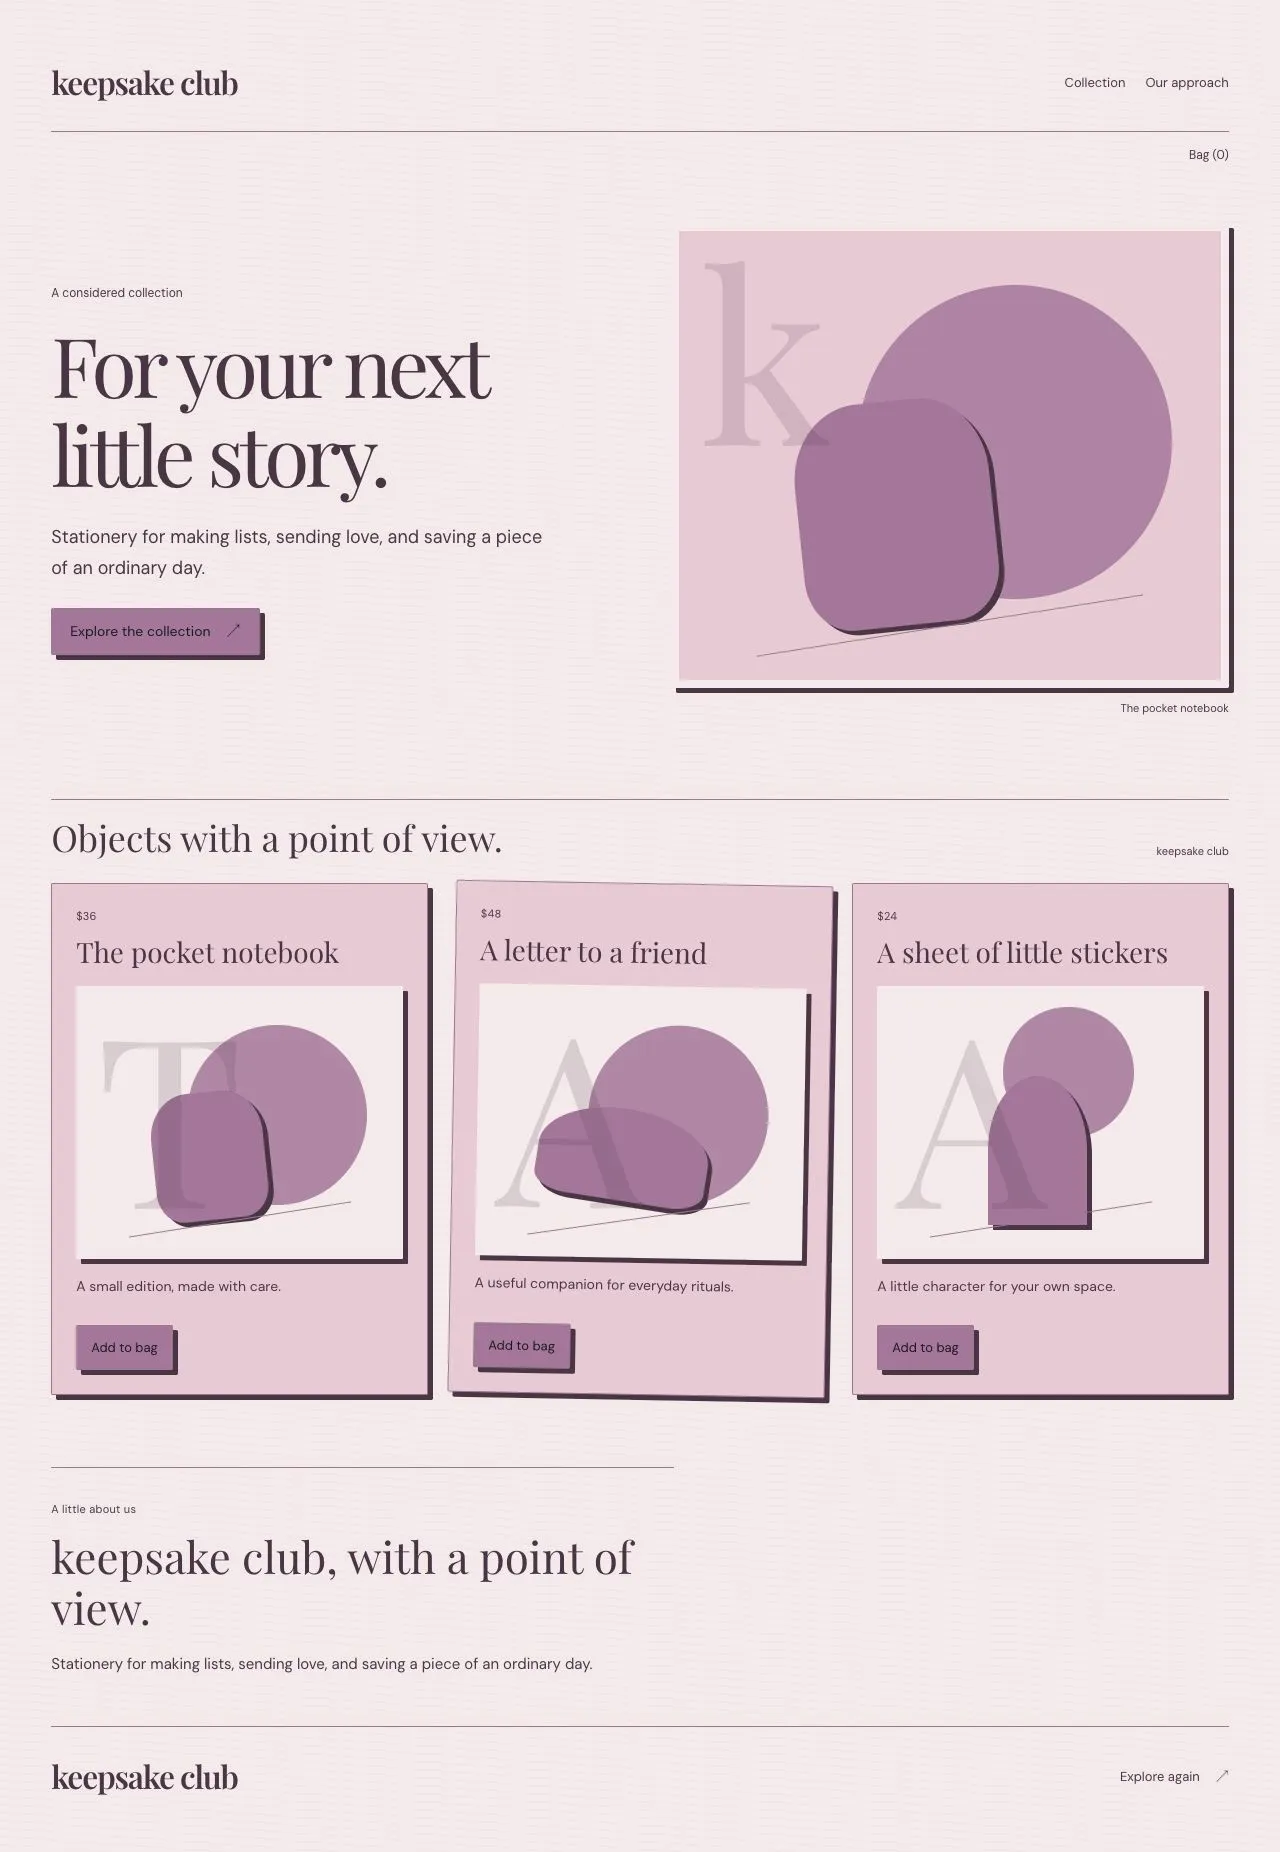
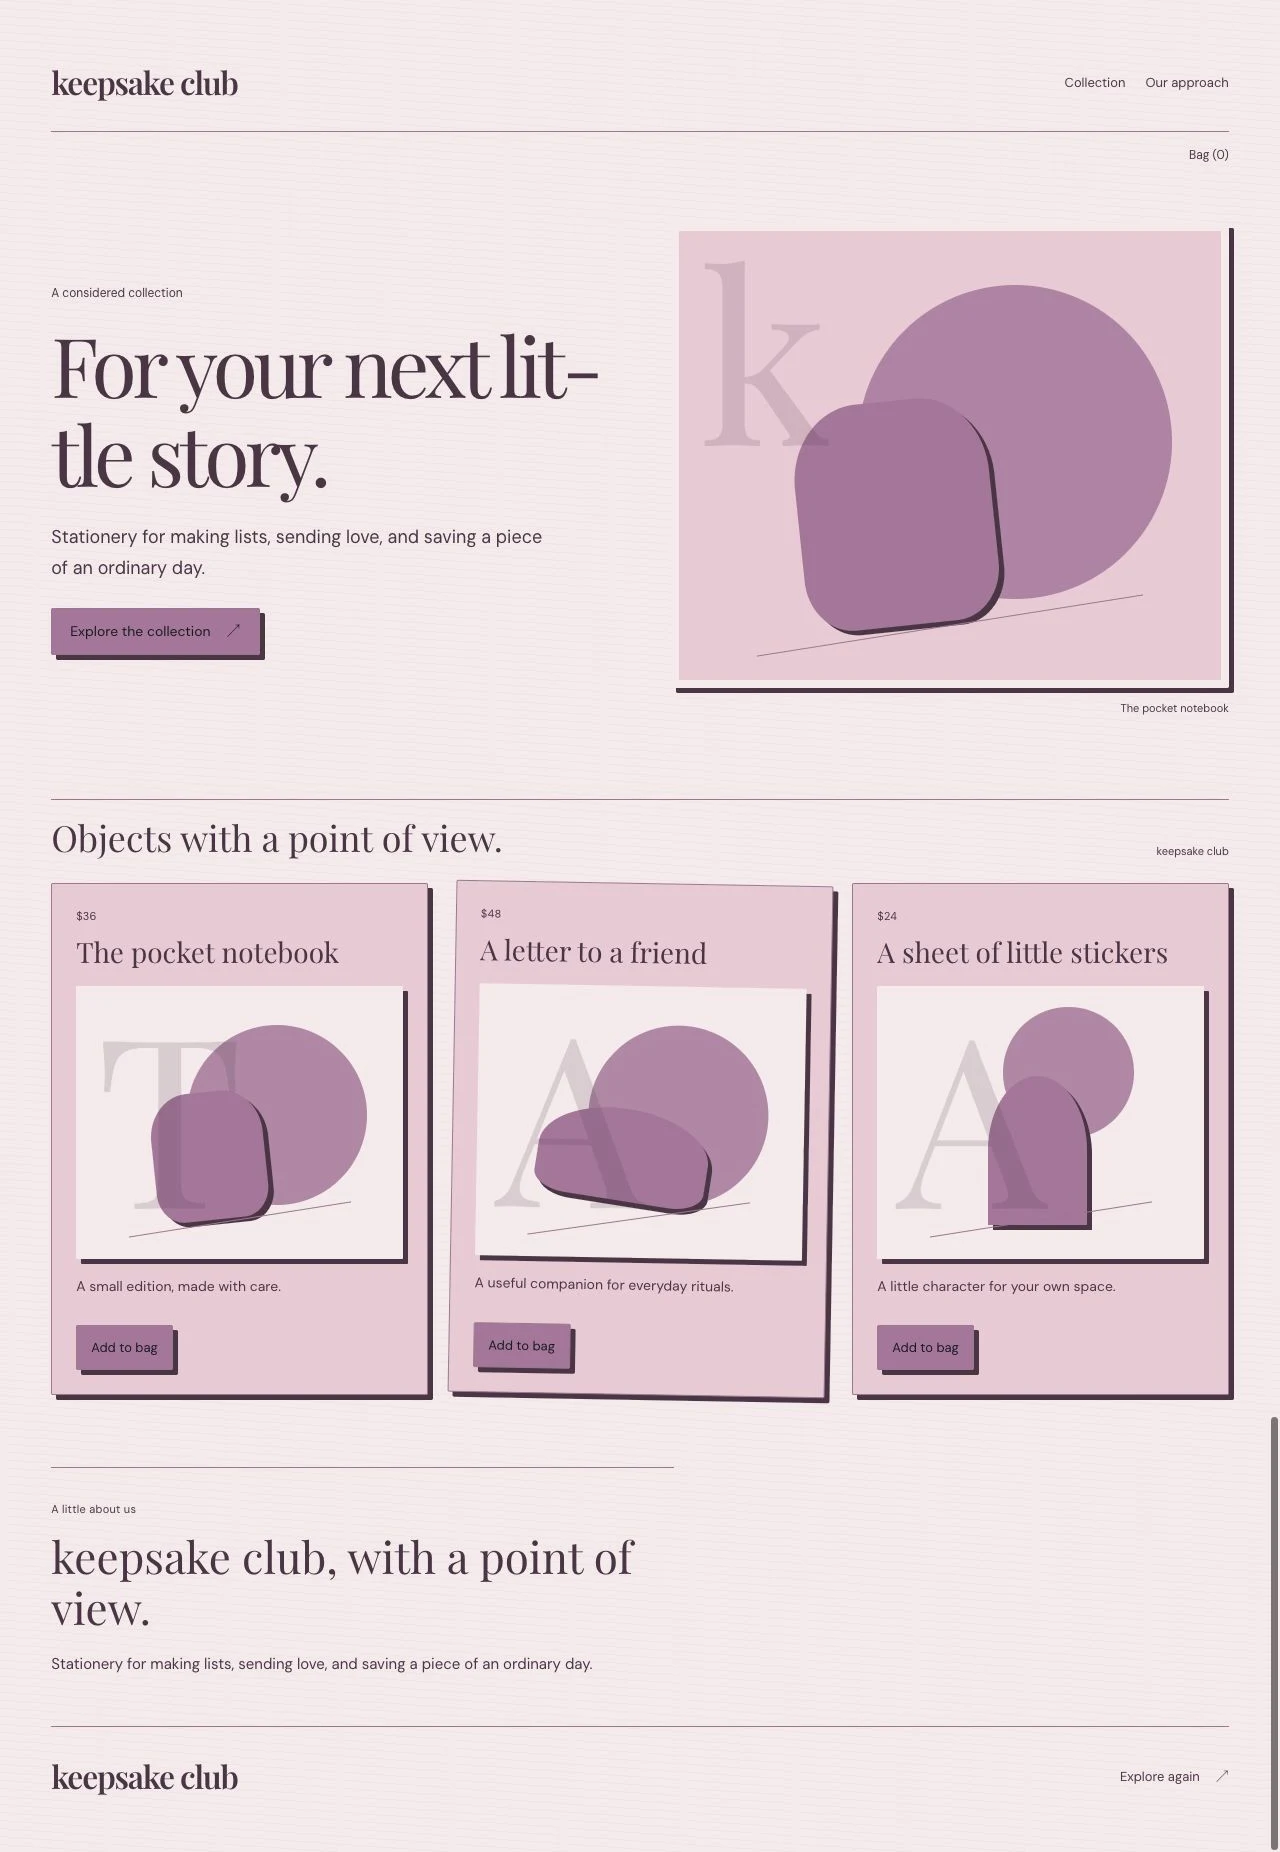
Refresh scrapbook references and synchronize its reusable skill assets.

Changed region(s): [[0.0312, 0.2154, 0.2812, 0.277], [0.9688, 0.7694, 1.0, 1.0], [0.375, 0.1847, 0.4688, 0.2154]]

diff --git a/skills/designkit-scrapbook/assets/shared/KitControls.tsx b/skills/designkit-scrapbook/assets/shared/KitControls.tsx
@@ -1,11 +1,14 @@
 "use client";
-
 import {
   useEffect,
   useId,
   useRef,
+  useState,
   type ButtonHTMLAttributes,
   type InputHTMLAttributes,
+  type HTMLAttributes,
+  type DialogHTMLAttributes,
+  type MouseEvent,
   type ReactNode,
 } from "react";
 
@@ -26,15 +29,16 @@ export function KitCard({
   label,
   children,
   action,
-}: {
-  title: string;
-  label?: string;
-  children?: ReactNode;
+  className = "",
+  ...props
+}: Omit<HTMLAttributes<HTMLElement>, "title"> & {
+  title: ReactNode;
+  label?: ReactNode;
   action?: ReactNode;
 }) {
   return (
-    <article className="kit-card">
-      <span className="kit-label">{label}</span>
+    <article {...props} className={`kit-card ${className}`}>
+      {label ? <span className="kit-label">{label}</span> : null}
       <h3>{title}</h3>
       {children}
       {action ? <div className="kit-card-action">{action}</div> : null}
@@ -44,18 +48,38 @@ export function KitCard({
 export function KitNavigation({
   brand,
   links,
-}: {
+  onNavigate,
+  className = "",
+  ...props
+}: HTMLAttributes<HTMLElement> & {
   brand: string;
   links: { label: string; href: string }[];
+  onNavigate?: (href: string, event: MouseEvent<HTMLAnchorElement>) => void;
 }) {
   return (
-    <nav className="kit-navigation" aria-label={`${brand} example navigation`}>
-      <a className="kit-brand" href={links[0]?.href}>
-        {brand}
-      </a>
+    <nav
+      {...props}
+      className={`kit-navigation ${className}`}
+      aria-label={props["aria-label"] || `${brand} navigation`}
+    >
+      {links[0]?.href ? (
+        <a
+          className="kit-brand"
+          href={links[0].href}
+          onClick={(event) => onNavigate?.(links[0].href, event)}
+        >
+          {brand}
+        </a>
+      ) : (
+        <span className="kit-brand">{brand}</span>
+      )}
       <div>
-        {links.map((link) => (
-          <a key={link.label} href={link.href}>
+        {links.map((link, index) => (
+          <a
+            key={`${link.href}:${index}`}
+            href={link.href}
+            onClick={(event) => onNavigate?.(link.href, event)}
+          >
             {link.label}
           </a>
         ))}
@@ -69,16 +93,20 @@ export function KitField({
   id,
   ...props
 }: InputHTMLAttributes<HTMLInputElement> & { label: string; error?: string }) {
-  const generated = useId();
-  const fieldId = id || generated;
+  const generated = useId(),
+    fieldId = id || generated;
+  const describedBy =
+    [props["aria-describedby"], error ? `${fieldId}-error` : undefined]
+      .filter(Boolean)
+      .join(" ") || undefined;
   return (
     <div className="kit-field">
       <label htmlFor={fieldId}>{label}</label>
       <input
         {...props}
         id={fieldId}
-        aria-invalid={Boolean(error)}
-        aria-describedby={error ? `${fieldId}-error` : undefined}
+        aria-invalid={error ? true : props["aria-invalid"]}
+        aria-describedby={describedBy}
       />
       {error ? (
         <p id={`${fieldId}-error`} className="kit-field-error">
@@ -91,43 +119,100 @@ export function KitField({
 export function KitStatus({
   state,
   children,
-}: {
+  className = "",
+  ...props
+}: HTMLAttributes<HTMLParagraphElement> & {
   state: "loading" | "empty" | "error" | "success";
-  children: ReactNode;
 }) {
   return (
     <p
-      className={`kit-status kit-status-${state}`}
-      role={state === "error" ? "alert" : "status"}
+      {...props}
+      className={`kit-status kit-status-${state} ${className}`}
+      role={props.role || (state === "error" ? "alert" : "status")}
     >
       {children}
     </p>
   );
 }
+const bodyLocks = new WeakMap<
+  HTMLElement,
+  { count: number; overflow: string }
+>();
+function lockBody(body: HTMLElement) {
+  const lock = bodyLocks.get(body) || {
+    count: 0,
+    overflow: body.style.overflow,
+  };
+  lock.count++;
+  bodyLocks.set(body, lock);
+  body.style.overflow = "hidden";
+  let released = false;
+  return () => {
+    if (released) return;
+    released = true;
+    lock.count--;
+    if (!lock.count) {
+      body.style.overflow = lock.overflow;
+      bodyLocks.delete(body);
+    }
+  };
+}
+type KitDialogProps = Omit<
+  DialogHTMLAttributes<HTMLDialogElement>,
+  "title" | "open"
+> & { title: ReactNode; trigger: ReactNode } & (
+    | { open?: undefined; onOpenChange?: (open: boolean) => void }
+    | { open: boolean; onOpenChange: (open: boolean) => void }
+  );
 export function KitDialog({
   trigger,
   title,
   children,
-}: {
-  trigger: string;
-  title: string;
-  children: ReactNode;
-}) {
-  const dialog = useRef<HTMLDialogElement>(null);
-  const opener = useRef<HTMLButtonElement>(null);
-  const previousOverflow = useRef<string | null>(null);
-  const titleId = useId();
-  const restore = () => {
-    if (previousOverflow.current !== null) {
-      document.body.style.overflow = previousOverflow.current;
-      previousOverflow.current = null;
-    }
-    opener.current?.focus({ preventScroll: true });
+  open,
+  onOpenChange,
+  className = "",
+  onClose,
+  onCancel,
+  ...props
+}: KitDialogProps) {
+  const dialog = useRef<HTMLDialogElement>(null),
+    opener = useRef<HTMLButtonElement>(null);
+  const previousFocus = useRef<HTMLElement | null>(null),
+    release = useRef<(() => void) | null>(null);
+  const [internalOpen, setInternalOpen] = useState(false);
+  const isOpen = open ?? internalOpen,
+    titleId = useId();
+  const request = (next: boolean) => {
+    if (open === undefined) setInternalOpen(next);
+    onOpenChange?.(next);
   };
+  const restore = () => {
+    release.current?.();
+    release.current = null;
+    const target = previousFocus.current?.isConnected
+      ? previousFocus.current
+      : opener.current;
+    if (target?.isConnected) target.focus({ preventScroll: true });
+    previousFocus.current = null;
+  };
+  useEffect(() => {
+    const element = dialog.current;
+    if (!element) return;
+    if (isOpen) {
+      if (!element.open) {
+        previousFocus.current ??=
+          document.activeElement instanceof HTMLElement
+            ? document.activeElement
+            : opener.current;
+        element.showModal();
+      }
+      if (!release.current) release.current = lockBody(document.body);
+    } else if (!isOpen && element.open) element.close();
+  }, [isOpen]);
   useEffect(
     () => () => {
-      if (previousOverflow.current !== null)
-        document.body.style.overflow = previousOverflow.current;
+      release.current?.();
+      release.current = null;
     },
     [],
   );
@@ -137,21 +222,27 @@ export function KitDialog({
         ref={opener}
         className="kit-button kit-button-secondary"
         type="button"
+        aria-haspopup="dialog"
         onClick={() => {
-          previousOverflow.current = document.body.style.overflow;
-          dialog.current?.showModal();
-          document.body.style.overflow = "hidden";
+          previousFocus.current = opener.current;
+          request(true);
         }}
       >
         {trigger}
       </button>
       <dialog
-        className="kit-dialog"
+        {...props}
+        className={`kit-dialog ${className}`}
         ref={dialog}
-        aria-labelledby={titleId}
-        onClose={restore}
+        aria-labelledby={props["aria-labelledby"] || titleId}
+        onCancel={(event) => onCancel?.(event)}
+        onClose={(event) => {
+          restore();
+          if (isOpen) request(false);
+          onClose?.(event);
+        }}
       >
-        <div>
+        <div className="kit-dialog-heading">
           <h3 id={titleId}>{title}</h3>
           <button
             type="button"

diff --git a/skills/designkit-scrapbook/assets/shared/ExampleCanvas.tsx b/skills/designkit-scrapbook/assets/shared/ExampleCanvas.tsx
@@ -1,6 +1,6 @@
 "use client";
 
-import { useId, useState, type CSSProperties } from "react";
+import { useId, useState, type CSSProperties, type MouseEvent } from "react";
 import type {
   DesignExample,
   PlaygroundSettings,
@@ -62,10 +62,19 @@ export default function ExampleCanvas({
     `${item.title} ${item.label}`.toLowerCase().includes(query.toLowerCase()),
   );
   const headline = normalized.headline;
-  const goToContent = () =>
-    document
-      .getElementById(sectionId)
-      ?.scrollIntoView({ behavior: "instant", block: "start" });
+  const focusSection = (id: string) => {
+    const target = document.getElementById(id);
+    target?.scrollIntoView({ behavior: "instant", block: "start" });
+    target?.focus({ preventScroll: true });
+  };
+  const navigateWithinExample = (
+    href: string,
+    event: MouseEvent<HTMLAnchorElement>,
+  ) => {
+    event.preventDefault();
+    focusSection(href.slice(1));
+  };
+  const goToContent = () => focusSection(sectionId);
   const contextLabel = {
     shop: "A considered collection",
     journal: "An independent journal",
@@ -90,6 +99,7 @@ export default function ExampleCanvas({
     >
       <KitNavigation
         brand={example.brand}
+        onNavigate={navigateWithinExample}
         links={[
           {
             label:
@@ -322,14 +332,17 @@ export default function ExampleCanvas({
           </>
         )}
       </section>
-      <section id={aboutId} className="kit-about">
+      <section id={aboutId} className="kit-about" tabIndex={-1}>
         <span className="kit-label">A little about us</span>
         <h3>{example.brand}, with a point of view.</h3>
         <p>{example.description}</p>
       </section>
       <footer className="kit-footer">
         <span className="kit-brand">{example.brand}</span>
-        <a href={`#${sectionId}`}>
+        <a
+          href={`#${sectionId}`}
+          onClick={(event) => navigateWithinExample(`#${sectionId}`, event)}
+        >
           Explore again <span aria-hidden="true">↗</span>
         </a>
       </footer>

diff --git a/skills/designkit-scrapbook/assets/shared/kit.css b/skills/designkit-scrapbook/assets/shared/kit.css
@@ -42,6 +42,7 @@
   font-family: var(--dk-heading), serif;
   font-synthesis: none;
   overflow-wrap: anywhere;
+  hyphens: auto;
 }
 .kit-canvas :is(button, a, input, select, textarea):focus-visible,
 .kit-component-surface :is(button, a, input, select, textarea):focus-visible {
@@ -353,6 +354,11 @@
   background: var(--dk-canvas);
 }
 .kit-dialog {
+  margin: auto;
+  max-height: calc(100dvh - 48px);
+  overflow: auto;
+  overscroll-behavior: contain;
+  overflow-wrap: anywhere;
   max-width: min(520px, calc(100vw - 40px));
   padding: 28px;
   color: var(--dk-ink);
@@ -365,7 +371,7 @@
 .kit-dialog::backdrop {
   background: rgb(0 0 0 / 0.45);
 }
-.kit-dialog > div {
+.kit-dialog-heading {
   display: flex;
   justify-content: space-between;
   gap: 20px;

diff --git a/skills/designkit-scrapbook/assets/shared/tokens.ts b/skills/designkit-scrapbook/assets/shared/tokens.ts
@@ -3,6 +3,7 @@ import type {
   PlaygroundSettings,
   StyleRecipe,
 } from "./types";
+import { kitVersion } from "./types";
 
 export const fontFamilies = [
   "Archivo Black",
@@ -258,7 +259,7 @@ export function exportDesignTokens(
       "dev.designkit": {
         exampleId: example.id,
         styleId: example.styleId,
-        version: "2.0.0",
+        version: kitVersion,
         settings,
         cssShadow: values["--dk-shadow"],
       },
